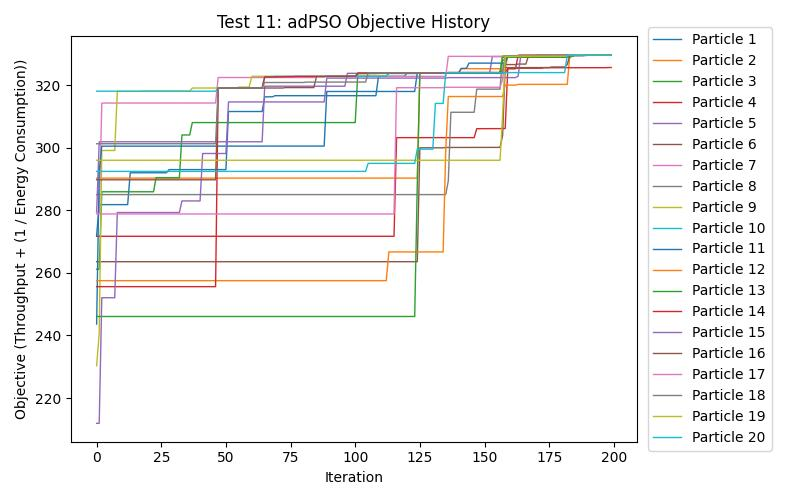
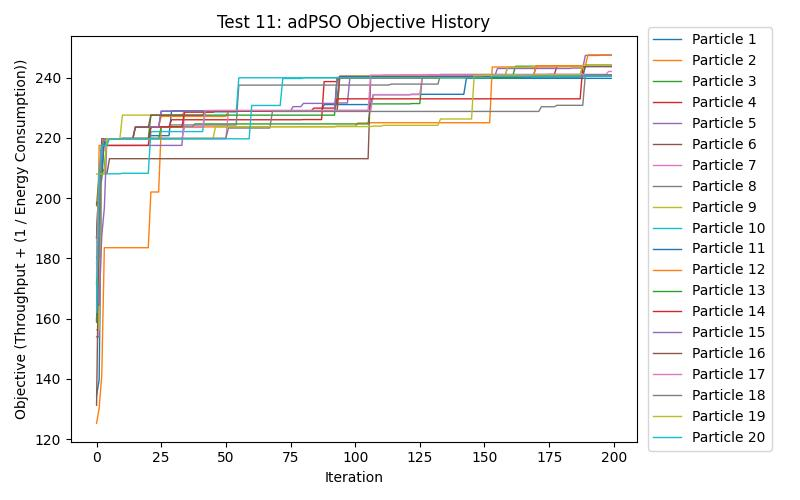
change velocity init method for high-task-high-vm

diff --git a/psoscheduler-java/src/main/java/syslab/cloudcomputing/pso/Particle.java b/psoscheduler-java/src/main/java/syslab/cloudcomputing/pso/Particle.java
@@ -158,7 +158,9 @@ public class Particle {
       this.position.setComponent(t.getId() - 1, vm.getId() - 1, 1);
     }
 
-    this.velocity = this.position.copy().multiply(0.2).addJ(0.1);
+    // this.velocity = this.position.copy().multiply(0.2).addJ(0.1);
+    this.velocity = new Matrix(this.workload.getTaskCount(), this.dataCenter.getVirtualMachineCount());
+    this.velocity.randomVelocityInitialization(0, 1);
 
     updateDataCenter();
     this.personalBestPosition = this.position;

diff --git a/psoscheduler-java/src/main/java/syslab/cloudcomputing/pso/PSOSwarm.java b/psoscheduler-java/src/main/java/syslab/cloudcomputing/pso/PSOSwarm.java
@@ -41,7 +41,7 @@ public class PSOSwarm {
   private void initializeSwarm(int nParticles) {
     this.particles = new ArrayList<Particle>();
     for (int i = 0; i < nParticles; i++) {
-      Particle particle = new Particle(this.dataCenter, this.workload, Particle.InitializationStrategy.MCT);
+      Particle particle = new Particle(this.dataCenter, this.workload, Particle.InitializationStrategy.HIGH_TASK_HIGH_VM);
       this.particles.add(particle);
     }
 
